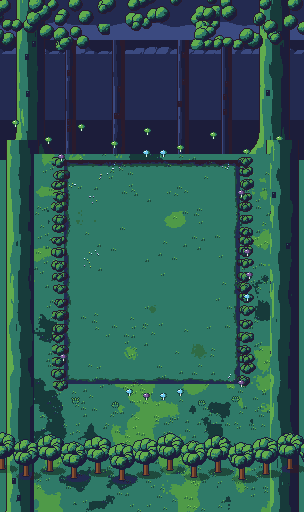
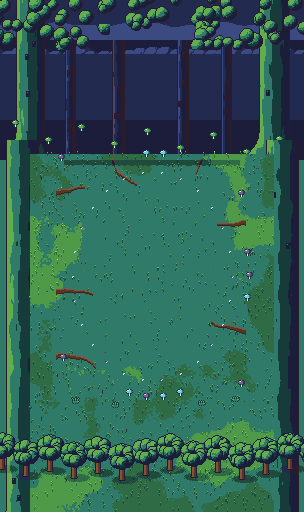
[C] v2.6 polish: crafted chapter 3 arena floors (wet pebble shore, mossy roots and mushroom ring, moonlit flagstones, crystal-veined rock) with soft edges; status
Claude-Session: https://claude.ai/code/session_011zCFYQCUMyXvVY6m2szGHz

diff --git a/tools/pixel/art_v26_world.py b/tools/pixel/art_v26_world.py
@@ -189,6 +189,109 @@ def frame_arena(img: Canvas, seed: int, ramp: tuple[str, str, str, str], outline
     K.calm_vignette(img, 8)
 
 
+# --------------------------------------------------------------------------
+# v2.6 polish: crafted chapter 3 floors (texture, large soft value shifts, soft edges, edge decor)
+# --------------------------------------------------------------------------
+
+def calm_k(x: int, y: int, fade: int = 22) -> float:
+    """0 outside the arena, rising to 1 at `fade` px inside it: how calm the floor must be here."""
+    if not in_arena(x, y):
+        return 0.0
+    d = min(x - AX0, AX1 - 1 - x, y - AY0, AY1 - 1 - y)
+    return min(1.0, d / fade)
+
+
+def textured_floor(img: Canvas, rect: tuple[int, int, int, int], ramp: tuple[str, str, str], seed: int,
+                   scale: float = 46.0, spread: float = 0.13, calm_spread: float = 0.2, mask=None) -> None:
+    """Large soft value shifts (dark / mid / light, clustered edges). Inside the arena the dark and light
+    patches thin out smoothly towards the middle, so there is no hard border where the arena starts."""
+    dark, mid, light = ramp
+    x0, y0, x1, y1 = rect
+    for y in range(max(0, y0), min(img.h, y1)):
+        for x in range(max(0, x0), min(img.w, x1)):
+            if mask is not None and not mask(x, y):
+                continue
+            k = calm_k(x, y)
+            n = fbm(x, y, seed, scale, 3) + AW._cluster(x, y, seed) * 0.05
+            lo = 0.5 - spread - calm_spread * k
+            hi = 0.5 + spread + calm_spread * k
+            img.set(x, y, dark if n < lo else (light if n > hi else mid))
+
+
+def blades(img: Canvas, rect: tuple[int, int, int, int], seed: int, density: float = 0.035, mask=None,
+           calm: float = 0.6) -> None:
+    """Grass / moss material: short 2-3 px strokes one step darker with a one-step lighter tip
+    (fewer towards the middle of the arena)."""
+    rng = random.Random(seed)
+    x0, y0, x1, y1 = rect
+    n = int((x1 - x0) * (y1 - y0) * density / 3)
+    for _ in range(n):
+        x, y = rng.randrange(x0, x1), rng.randrange(y0, y1)
+        if (mask is not None and not mask(x, y)) or rng.random() < calm_k(x, y) * calm:
+            continue
+        base = name_at(img, x, y)
+        if base is None:
+            continue
+        lean = rng.choice((-1, 0, 0, 1))
+        h = rng.randrange(2, 4)
+        for j in range(h):
+            img.set(x + (lean if j == h - 1 else 0), y - j, K.dk(base))
+        img.set(x + lean, y - h, K.lt(base))
+
+
+def pebbles(img: Canvas, rect: tuple[int, int, int, int], n: int, seed: int, cols=("slate", "ash", "fog"),
+            mask=None, calm: float = 0.8) -> None:
+    """Small rounded stones: a 3x2 body with a lit top-left pixel and a dark underside."""
+    rng = random.Random(seed)
+    x0, y0, x1, y1 = rect
+    for _ in range(n):
+        x, y = rng.randrange(x0, x1), rng.randrange(y0, y1)
+        if (mask is not None and not mask(x, y)) or rng.random() < calm_k(x, y) * calm:
+            continue
+        w = rng.choice((2, 3, 3, 4))
+        for dx in range(w):
+            img.set(x + dx, y, cols[1])
+            img.set(x + dx, y + 1, cols[0])
+        img.set(x, y, cols[2])
+
+
+def root(img: Canvas, x: float, y: float, ang: float, length: int, seed: int, width: float = 2.6,
+         cols=("umber", "brown_d", "brown")) -> None:
+    """A tree root creeping over the floor: a tapering band, dark underside, lit top edge."""
+    rng = random.Random(seed)
+    for i in range(length):
+        w = max(1.0, width * (1 - i / length))
+        ang += rng.uniform(-0.18, 0.18)
+        x += math.cos(ang)
+        y += math.sin(ang) * 0.7
+        for t in range(int(w) + 1):
+            img.set(int(x), int(y) + t, cols[1])
+        img.set(int(x), int(y), cols[2])
+        img.set(int(x), int(y) + int(w) + 1, cols[0])
+
+
+def shard(img: Canvas, x: int, y: int, ramp=("water_d", "water", "sky_l"), h: int = 4) -> None:
+    """A tiny crystal shard poking out of the floor (lit left facet, glint)."""
+    for j in range(h):
+        img.set(x, y - j, ramp[2] if j < h - 1 else "white")
+        if j < h - 1:
+            img.set(x + 1, y - j, ramp[1])
+    img.set(x + 2, y, ramp[0])
+    img.set(x - 1, y, ramp[0])
+
+
+def vein(img: Canvas, x: float, y: float, length: int, seed: int, cols=("water", "sky")) -> None:
+    """A faint crystal vein in the rock floor (1 px wandering line, brighter in its middle)."""
+    rng = random.Random(seed)
+    ang = rng.uniform(0, 2 * math.pi)
+    for i in range(length):
+        ang += rng.uniform(-0.5, 0.5)
+        x += math.cos(ang)
+        y += math.sin(ang)
+        img.set(int(x), int(y), cols[1] if length // 3 < i < 2 * length // 3 else cols[0])
+
+
+
 def steps(img: Canvas, x0: int, x1: int, y: int, n: int, ramp: tuple[str, str, str], depth: int = 4) -> None:
     """Stairs going down towards the viewer: each step a lit tread and a shaded riser."""
     for k in range(n):
@@ -890,11 +993,31 @@ def scene_misty_lake() -> Scene26:
         sy = AY0 - 10 + int(2 * math.sin(x / 17.0))
         for y in range(sy, sy + 8):
             img.set(x, y, "stone" if y < sy + 2 else "stone_l" if y < sy + 3 else "dirt")
-    AW.paint_ground(img, (0, AY0 - 2, IMG_W, IMG_H), ("deep", "teal", "leaf_d"), 3103, scale=26, tufts=0.45,
-                    max_light=0.2, max_dark=0.16)
-    calm_ground(img, ("teal", "leaf_d", "grass"), 3104)
-    frame_arena(img, 3105, ("deep", "teal", "leaf_d", "grass"), "navy")
-    K.calm_vignette(img, 10)
+    textured_floor(img, (0, AY0 - 2, IMG_W, IMG_H), ("teal", "leaf_d", "grass"), 3103)
+
+    def shore(x: int, y: int) -> bool:
+        return y < AY0 + 16 + 10 * AW.fbm(x, 0, 3106, 20, 2) + 4 * math.sin(x / 13.0)
+    textured_floor(img, (0, AY0 - 4, IMG_W, AY0 + 34), ("slate", "stone", "stone_l"), 3107, scale=20, spread=0.1,
+                   calm_spread=0.05, mask=shore)
+    pebbles(img, (0, AY0 - 4, IMG_W, AY0 + 34), 260, 3108, ("slate", "ash", "fog"), mask=shore, calm=0.3)
+    for x in range(IMG_W):
+        for y in range(AY0 - 4, AY0 + 36):
+            if not shore(x, y) and shore(x, y - 1):
+                img.set(x, y, "moss_d")
+                if x % 3:
+                    img.set(x, y + 1, "moss_d")
+    blades(img, (0, AY0 + 6, IMG_W, IMG_H), 3109, 0.04, mask=lambda x, y: not shore(x, y))
+    AW.sprinkle_flowers(img, (0, AY0 + 30, IMG_W, IMG_H), 26, 3110, ["white", "lilac", "sky_l"],
+                        mask=lambda x, y: calm_k(x, y) < 0.5)
+    for (x, y) in ((AX0 + 4, AY0 + 4), (AX1 - 30, AY0 + 2), (AX0 + 2, AY1 - 30), (AX1 - 22, AY1 - 18)):
+        AW.place(img, AW.rock(x * 7 + y, 12, 8, ("slate", "ash", "fog", "white"), "navy", "moss"), x, y,
+                 shadow=(1.0, -1), shadow_dx=3)
+    for (x, y) in ((AX0 - 4, AY0 + 40), (AX1 - 6, AY0 + 90), (AX0 - 2, AY0 + 150)):
+        img.blit(K.reeds(x + y, 12), x, y)
+    for (cx, cy) in ((AX0 + 30, AY0 + 10), (AX1 - 48, AY0 + 16)):
+        for (x, y) in P.ellipse(cx, cy, 9, 3):
+            img.set(x, y, "water_d" if y > cy else "sky")
+        img.hline(cx - 4, cx + 1, cy - 1, "sky_l")
     # the jetty and a rowing boat on the right, reeds and rocks along the shore
     for y in range(86, AY0 - 2):
         for x in range(232, 248):
@@ -977,21 +1100,35 @@ def scene_fairy_forest() -> Scene26:
             y = AY0 + 30 + k * 70 + side * 20
             img.blit(K.mushroom_glow(k, cap=("plum", "violet", "lilac")), tx + (12 if side == 0 else -18), y)
     # clearing: moss, a fairy ring of mushrooms round the edge
-    AW.paint_ground(img, (AX0 - 30, AY0 - 6, AX1 + 30, IMG_H), ("deep", "teal", "leaf_d"), 3205, scale=24, tufts=0.4,
-                    max_light=0.16, max_dark=0.2)
-    calm_ground(img, ("forest", "teal", "leaf_d"), 3206)
-    crng = random.Random(3208)
-    for _ in range(14):
-        cx, cy = crng.randrange(AX0 + 6, AX1 - 6), crng.randrange(AY0 + 6, AY1 - 6)
-        if AX0 + 30 < cx < AX1 - 30 and AY0 + 30 < cy < AY1 - 30:
+    textured_floor(img, (AX0 - 34, AY0 - 6, AX1 + 34, IMG_H), ("forest", "teal", "leaf_d"), 3205)
+    blades(img, (AX0 - 34, AY0 - 6, AX1 + 34, IMG_H), 3206, 0.05)
+    # fallen leaves and moss clumps at the edges
+    lrng = random.Random(3208)
+    for _ in range(120):
+        x, y = lrng.randrange(AX0 - 30, AX1 + 30), lrng.randrange(AY0, AY1 + 20)
+        if lrng.random() < calm_k(x, y) * 0.95:
             continue
-        for _ in range(5):
-            fx, fy = cx + crng.randrange(-5, 6), cy + crng.randrange(-4, 5)
-            img.set(fx, fy, crng.choice(("lilac", "sky_l", "spring")))
-            img.set(fx, fy + 1, "deep")
-    frame_arena(img, 3207, ("navy", "deep", "teal", "leaf_d"), "ink")
-    K.calm_vignette(img, 12)
-    K.edge_shadow(img, AY0, 6)
+        col = lrng.choice(("moss_d", "brown", "dusk", "moss_d"))
+        img.set(x, y, col)
+        img.set(x + 1, y, K.dk(col))
+    # big roots creeping in from the giant trees
+    for k, (x, y, a) in enumerate(((AX0 - 8, AY0 + 30, 0.25), (AX0 - 8, AY0 + 130, -0.2), (AX0 - 8, AY1 - 30, 0.3),
+                                   (AX1 + 6, AY0 + 60, math.pi - 0.2), (AX1 + 6, AY0 + 170, math.pi + 0.25),
+                                   (MIDX - 40, AY0 - 2, 1.2), (MIDX + 50, AY0 - 2, 1.9))):
+        root(img, x, y, a, 30 + (k % 3) * 8, 3209 + k, width=4.0)
+    # a fairy ring of glowing mushrooms round the clearing (sparse, inside the edge)
+    for k in range(26):
+        a = k / 26 * 2 * math.pi
+        x = int(MIDX + math.cos(a) * 80)
+        y = int((AY0 + AY1) / 2 + 4 + math.sin(a) * 104)
+        cap = ("teal", "sky", "sky_l") if k % 3 else ("plum", "violet", "lilac")
+        img.set(x, y, cap[1])
+        img.set(x + 1, y, cap[2])
+        img.set(x - 1, y, cap[0])
+        img.set(x, y + 1, "haze")
+        if k % 6 == 0:
+            sc.anim("mushroom_pulse", x - 2, y - 1, k % 6, 0.7)
+    K.edge_shadow(img, AY0, 5)
     rng = random.Random(3205)
     for k in range(34):
         a = k / 34 * 2 * math.pi
@@ -1049,12 +1186,21 @@ def scene_stone_circle() -> Scene26:
         img.vline(x - 11, AY0 - 2 - h - 7, AY0 - 2 - h + 1, "ink")
         img.vline(x + 34, AY0 - 2 - h - 7, AY0 - 2 - h + 1, "ink")
     # plateau grass, a pale ring path
-    AW.paint_ground(img, (0, AY0 - 6, IMG_W, IMG_H), ("deep", "teal", "leaf_d"), 3302, scale=26, tufts=0.4,
-                    max_light=0.16, max_dark=0.2)
-    calm_ground(img, ("forest", "teal", "leaf_d"), 3303)
-    frame_arena(img, 3304, ("navy", "deep", "teal", "leaf_d"), "ink", rocks=True)
-    rune_ring(img, MIDX, (AY0 + AY1) // 2 + 6, 70, "teal", "grass", ticks=20, width=1.6)
-    K.calm_vignette(img, 12)
+    textured_floor(img, (0, AY0 - 6, IMG_W, IMG_H), ("forest", "teal", "leaf_d"), 3302)
+    blades(img, (0, AY0 - 6, IMG_W, IMG_H), 3303, 0.045)
+    ccx, ccy = MIDX, (AY0 + AY1) // 2 + 6
+
+    def paved(x: int, y: int) -> bool:
+        d = math.hypot((x + 0.5 - ccx) / 84, (y + 0.5 - ccy) / 108)
+        return d + (AW.fbm(x, y, 3304, 10, 2) - 0.5) * 0.35 < 0.92
+    K.flagstones(img, (AX0 - 10, AY0 - 6, AX1 + 10, AY1 + 6), ("ash", "ash"), "slate", 3305, mask=paved,
+                 lip="fog", worn="stone", worn_rate=0.25, crack_rate=0.06)
+    K.soft_patches(img, (AX0 - 10, AY0, AX1 + 10, AY1), "teal", 3306, cover=0.08, scale=10, only=("slate",))
+    rune_ring(img, ccx, ccy, 70, "slate", "teal", ticks=20, width=1.4)
+    for k in range(14):
+        a = k / 14 * 2 * math.pi
+        px, py = int(ccx + math.cos(a) * 92), int(ccy + math.sin(a) * 118)
+        img.blit(AW.rock(3307 + k, 8, 5, ("navy", "slate", "ash", "fog"), "ink", "teal"), px - 4, py - 3)
     K.edge_shadow(img, AY0 - 6, 5, 0, IMG_W)
     # small standing stones round the plateau with glowing runes
     spots = [(20, 190), (262, 200), (14, 280), (268, 290), (24, 360), (258, 372), (90, 398), (190, 400)]
@@ -1130,9 +1276,25 @@ def scene_crystal_cave() -> Scene26:
     # floor
     AW.paint_ground(img, (0, AY0 - 4, IMG_W, IMG_H), ("navy", "slate", "ash"), 3404, scale=30, tufts=0.0,
                     max_light=0.12, max_dark=0.14)
-    calm_ground(img, ("slate", "ash", "fog"), 3405, tufts=0.0)
-    K.soft_patches(img, (AX0, AY0, AX1, AY1), "slate", 3407, cover=0.08, scale=22, only=("ash",))
-    K.calm_vignette(img, 12)
+    textured_floor(img, (AX0 - 30, AY0 - 4, AX1 + 30, AY1 + 30), ("slate", "ash", "stone"), 3405, scale=38)
+    # worn tile seams: big irregular slabs of the cave floor, only one step darker
+    K.flagstones(img, (AX0 - 30, AY0 - 4, AX1 + 30, AY1 + 30), ("ash", "ash"), "slate", 3406, widths=(22, 36),
+                 heights=(18, 26), crack_rate=0.0,
+                 mask=lambda x, y: name_at(img, x, y) == "ash" and AW.fbm(x, y, 3407, 30, 2) > 0.42)
+    pebbles(img, (AX0 - 30, AY0 - 4, AX1 + 30, AY1 + 30), 160, 3408, ("navy", "slate", "ash"), calm=0.9)
+    vrng = random.Random(3409)
+    for k in range(18):
+        x, y = vrng.randrange(AX0 - 20, AX1 + 20), vrng.randrange(AY0, AY1 + 20)
+        if calm_k(x, y) > 0.7:
+            continue
+        vein(img, x, y, vrng.randrange(10, 24), 3410 + k, ("water", "sky") if k % 3 else ("violet", "lilac"))
+    for k in range(30):
+        x, y = vrng.randrange(AX0 - 26, AX1 + 26), vrng.randrange(AY0, AY1 + 26)
+        if calm_k(x, y) > 0.35:
+            continue
+        shard(img, x, y, ("water_d", "water", "sky_l") if k % 3 else ("plum", "violet", "lilac"), 3 + k % 3)
+    for i, (x, y) in enumerate(((AX0 + 6, AY0 + 14), (AX1 - 16, AY0 + 70), (AX0 + 10, AY1 - 50), (AX1 - 14, AY1 - 14))):
+        sc.anim("glint_cyan" if i % 2 else "glint_violet", x, y, i * 2, 0.5 + i * 0.1)
     K.edge_shadow(img, AY0 - 4, 7, 0, IMG_W)
     # side clusters and stalagmites, a pool at the bottom
     for (x, y, cols) in ((8, 220, "cyan"), (262, 250, "violet"), (12, 330, "violet"), (256, 350, "cyan")):

diff --git a/docs/status/LINE_C.md b/docs/status/LINE_C.md
@@ -25,6 +25,12 @@
 - 截圖工具:`xvfb-run -a godot --path . --rendering-driver opengl3 res://tests/line_c/world_shots.tscn -- --out=資料夾 --bgs=all --titles=0,1,2,3`(每張背景放幾個角色,標題依已打完的章數)。
 - 只重畫 C 世界的檔案(不會動到角色圖):`python3 tools/pixel/art_v26_world.py`、`art_v26_ch1.py`、`art_v26_title.py`、`art_v26_story.py`、`python3 tools/pixel/music_gen.py field_2 boss_2 field_3 boss_3`,再 `godot --headless --path . --import`。
 
+### 再修一輪(合併整合分支之後)
+
+- 第三章的四個戰鬥區地面重畫:迷霧湖畔是濕的小石子湖岸漸漸變成有草的地面(小水窪、長青苔的石頭、蘆葦);妖精森林是青苔地面,大樹根從邊緣伸進來,邊緣有一圈發光蘑菇與落葉;月光石陣在石圈裡鋪上月光下的石板,邊緣的石縫長草;水晶洞窟是大塊的岩石地板,有淡淡的水晶紋路與邊緣的小水晶碎片。四張的中間都保持安靜,邊緣慢慢變化,不再有硬的深色框。
+- 標題:章名與「第 N 章 完成!」下面加了半透明深色底,三張背景上都看得清楚;已用 C 角色的正式蘭斯洛特與湖中仙女確認畫面。
+- 十一張插畫改用 C 角色的正式設計(蘭斯洛特、湖中仙女、綠騎士、摩根娜);只有金毛、蘭斯洛特、貝德維爾拿武器;摩根娜拿新月法杖,c3_ending_1 法杖掉在地上、她坐著;金毛叼著樹枝遞給她;其他騎士和綠騎士空手。
+
 ### 給整合工作階段
 
 - `tools/pixel/build_all.py` 加了四個 import 與四行呼叫(在 `art_brand.write_all` 之後,所以會蓋過舊的標題背景與第一章背景)。
@@ -33,7 +39,7 @@
 
 ### 還可以再做 / 需要擁有人決定的事
 
-- 插畫裡的蘭斯洛特、湖中仙女、摩根娜是用金毛的圖換色畫的(C 角色的正式圖完成前不能直接用);整合後可以換成 C 角色的新圖。插畫裡的角色仍然拿著劍(撿樹枝那幾張也是)。
+- (已處理)插畫改用 C 角色的正式設計。
 - 長手機才看得到第一章背景最上面的遠景;一般 180×320 的畫面上方被 HUD 蓋住的部分只多了一排淡淡的中景樹。
 
 ## 已完成
